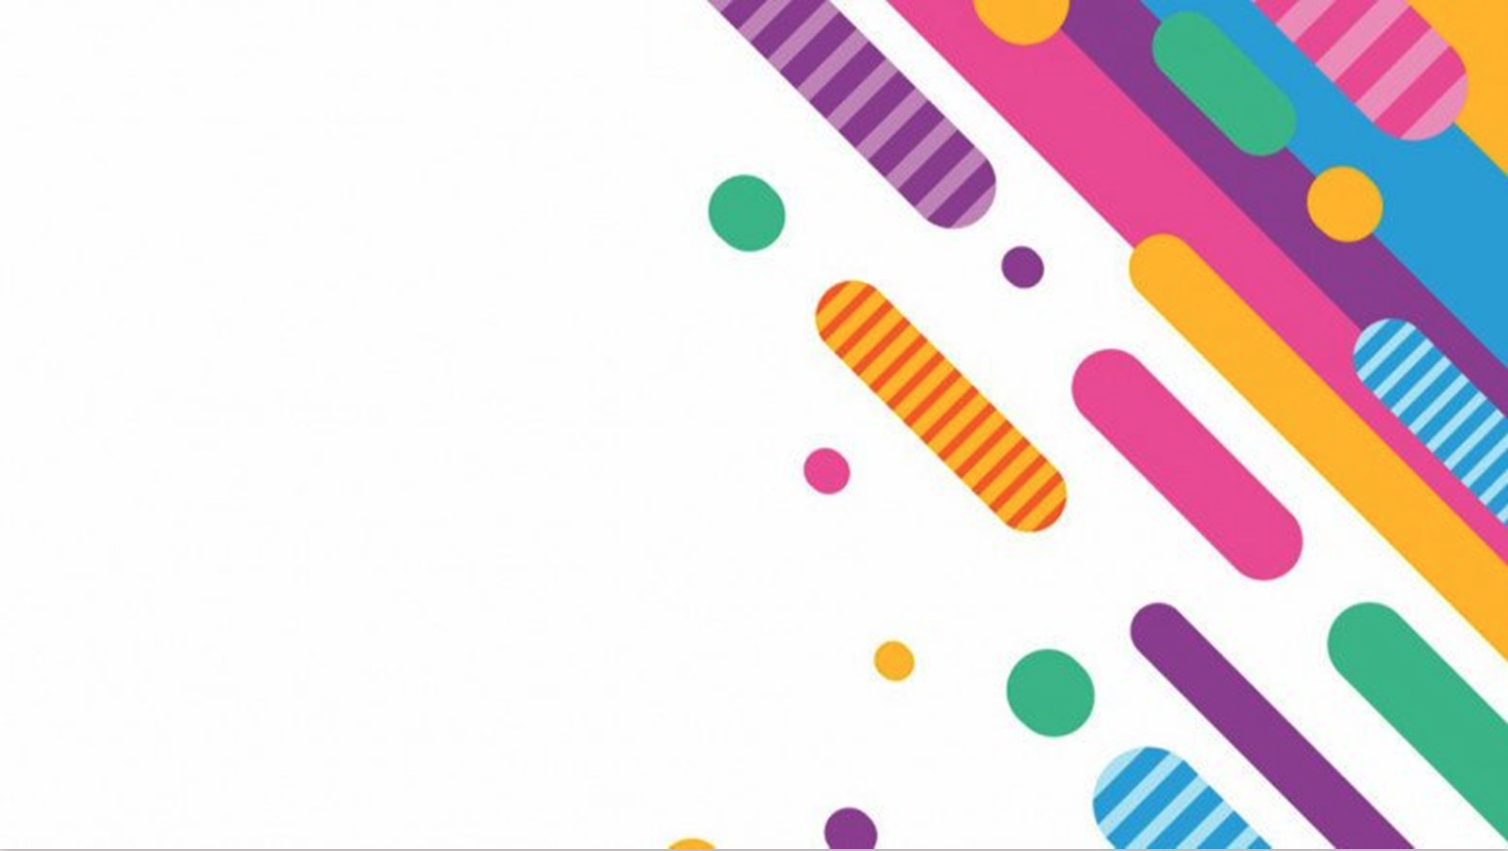
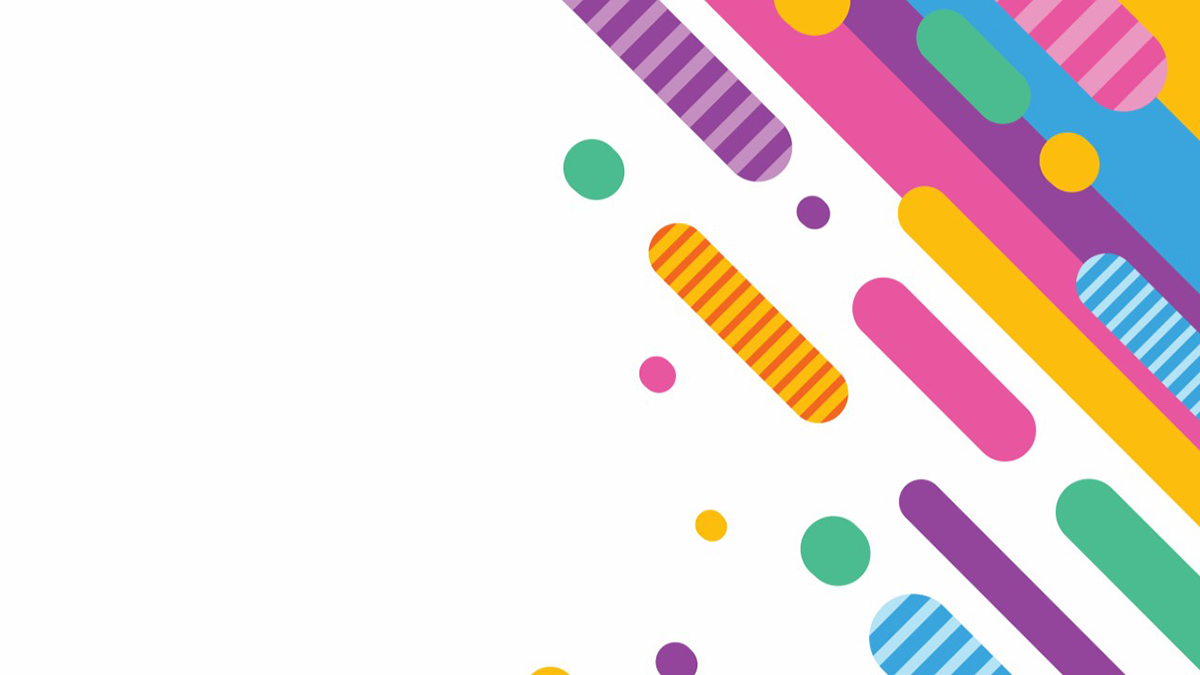
add sharper background image

diff --git a/client/assets/css/style.css b/client/assets/css/style.css
@@ -1,5 +1,5 @@
 body {
-    background: url("../img/background2.jpeg");
+    background: url("../img/background.png");
     color: rgb(61, 58, 58) !important;
     background-size: cover;
     background-repeat: no-repeat;
